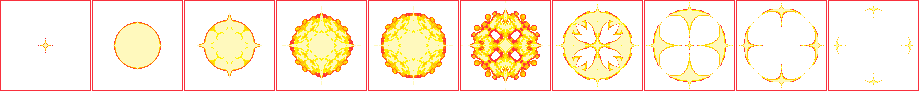
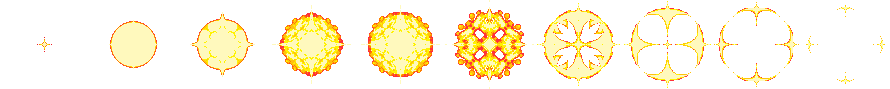
added visual effect holder, explosions on ship destruction

diff --git a/src/game/visual_effect.cpp b/src/game/visual_effect.cpp
@@ -1,0 +1,50 @@
+//
+// Created by tobiasz on 06.06.2022.
+//
+
+#include "visual_effect.h"
+bool Effect::update(float dt) {
+    time+=dt;
+    size_t last_index = index;
+    while(animationData.times[index] <= time)
+    {
+        time-= animationData.times[index];
+        index++;
+        if(index >= animationData.times.size())
+            return true;
+    }
+
+    if(index != last_index)
+    {
+        int y = index / animationData.frames_in_row;
+        int x = index % animationData.frames_in_row;
+        sf::Vector2i pos(x * animationData.frame_size.x, y * animationData.frame_size.y);
+        sprite.setTextureRect(sf::IntRect(pos, animationData.frame_size));
+    }
+    return false;
+}
+
+Effect::Effect(sf::Vector2f pos, const AnimationData &data): animationData(data), sprite(*(data.texture))
+        {
+    sprite.setTextureRect(sf::IntRect(sf::Vector2i(0,0), data.frame_size));
+    sprite.setPosition(pos - sf::Vector2f(data.frame_size)/2.0f);
+}
+
+void Effect::draw(sf::RenderTarget &target, sf::RenderStates states) const {
+    target.draw(sprite, states);
+}
+
+
+void EffectHolder::draw(sf::RenderTarget &target, sf::RenderStates states) const {
+    std::for_each(effects.begin(), effects.end(), [&](const Effect& item){
+        target.draw(item, states);
+    });
+}
+
+void EffectHolder::update(float dt) {
+    effects.remove_if([dt](Effect& effect){return effect.update(dt);});
+}
+
+void EffectHolder::create_effect(sf::Vector2f pos, const std::string& name) {
+    effects.emplace_back(pos, context.assetLoader.get_animation(name));
+}

diff --git a/src/game/visual_effect.h b/src/game/visual_effect.h
@@ -1,0 +1,32 @@
+//
+// Created by tobiasz on 06.06.2022.
+//
+
+#pragma once
+#include <SFML/Graphics.hpp>
+#include "../gui/Animation.h"
+#include "../system/context.h"
+#include <list>
+
+class Effect: public sf::Drawable{
+public:
+    Effect(sf::Vector2f pos, const AnimationData& data);
+    bool update(float dt);
+    void draw(sf::RenderTarget &target, sf::RenderStates states) const override;
+private:
+    AnimationData animationData;
+    sf::Sprite sprite;
+    size_t index = 0;
+    float time = 0;
+};
+
+class EffectHolder: public sf::Drawable{
+public:
+    explicit EffectHolder(Context& context): context(context) {}
+    void create_effect(sf::Vector2f pos, const std::string& name);
+    void draw(sf::RenderTarget &target, sf::RenderStates states) const override;
+    void update(float dt);
+private:
+    std::list<Effect> effects;
+    Context& context;
+};

diff --git a/src/game/Level.cpp b/src/game/Level.cpp
@@ -14,10 +14,12 @@ void Level::draw() {
     {
         context.window.draw(*p);
     }
+    context.window.draw(effectHolder);
 
 }
 
-Level::Level(const LevelData &data, Context &context) : Screen(context,false), data(data)
+Level::Level(const LevelData &data, Context &context) : Screen(context,false),
+effectHolder(context), data(data)
 {
     n_of_enemies = data.ships.size();
     background.setTexture(context.assetLoader.get_texture(data.background),true);
@@ -33,6 +35,8 @@ bool Level::process_additional_event(sf::Event &event) {
 }
 
 bool Level::update_logic(float dt) {
+    effectHolder.update(dt);
+
     if(n_of_enemies == 0)
     {
         context.soundEngine.play_sound("jump_sound");

diff --git a/src/game/Level.h b/src/game/Level.h
@@ -7,6 +7,7 @@
 #include "Projectile.h"
 #include "../system/context.h"
 #include "../gui/Screen.h"
+#include "visual_effect.h"
 #include <optional>
 class Ship;
 
@@ -19,8 +20,10 @@ public:
 
     static Screen *get_level_screen(Context& context, unsigned int n);
     void add_projectile(Projectile*);
+    void add_effect(const std::string& name, sf::Vector2f pos){effectHolder.create_effect(pos, name);};
     ~Level();
 private:
+    EffectHolder effectHolder;
     const LevelData data;
     sf::Sprite background;
     std::list<Ship*> ships;

diff --git a/src/game/Ship.cpp b/src/game/Ship.cpp
@@ -15,7 +15,15 @@ bool Ship::get_hit_by(const Projectile &projectile) {
     health--;
     hpBar.set_hp(health);
     if(health<=0)
+    {
+        if(!is_dead)
+        {
+            level_ptr->add_effect("explosion_0", position + animation.getSize()/2.0f);
+            context.soundEngine.play_sound("big_explosion_sound");
+        }
+
         is_dead = true;
+    }
     return true;
 }
 
